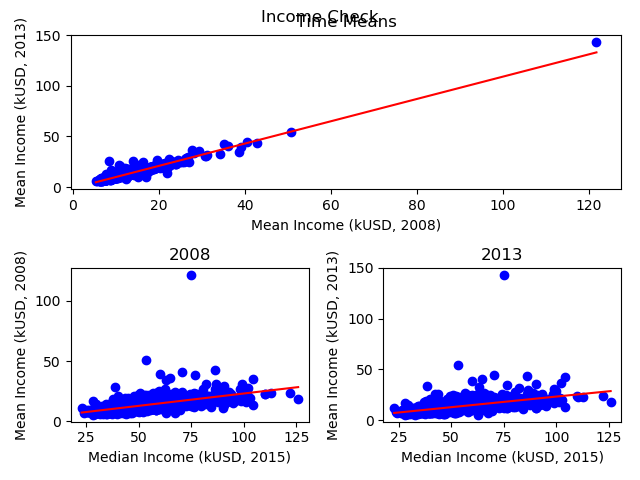
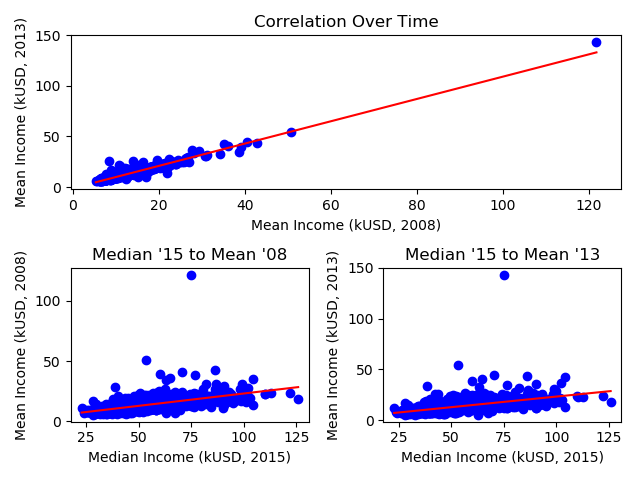
Fix title on income corr graph

diff --git a/Projects/1ProjectFiles/Team8/ExploreRelation.py b/Projects/1ProjectFiles/Team8/ExploreRelation.py
@@ -92,18 +92,18 @@ if __name__ == '__main__':
 
     # check sanity of income distribution; distribution over time highly corellated
     plt.figure()
-    plt.suptitle('Income Check')
+    # plt.suptitle('Income Check')
     scatter_with_trend(
         X08, X13, (W08 + W13)/2,
-        'Time Means', x08_label, x13_label, (2,1,1)
+        'Correlation Over Time', x08_label, x13_label, (2,1,1)
     )
     scatter_with_trend(
         XMed, X08, W08,
-        '2008', xmed_label, x08_label, (2,2,3)
+        "Median '15 to Mean '08", xmed_label, x08_label, (2,2,3)
     )
     scatter_with_trend(
         XMed, X13, W13,
-        '2013', xmed_label, x13_label, (2,2,4)
+        "Median '15 to Mean '13", xmed_label, x13_label, (2,2,4)
     )
     plt.tight_layout()
     plt.savefig(home_dir + 'Visualizations/IncomeCorr.png')
